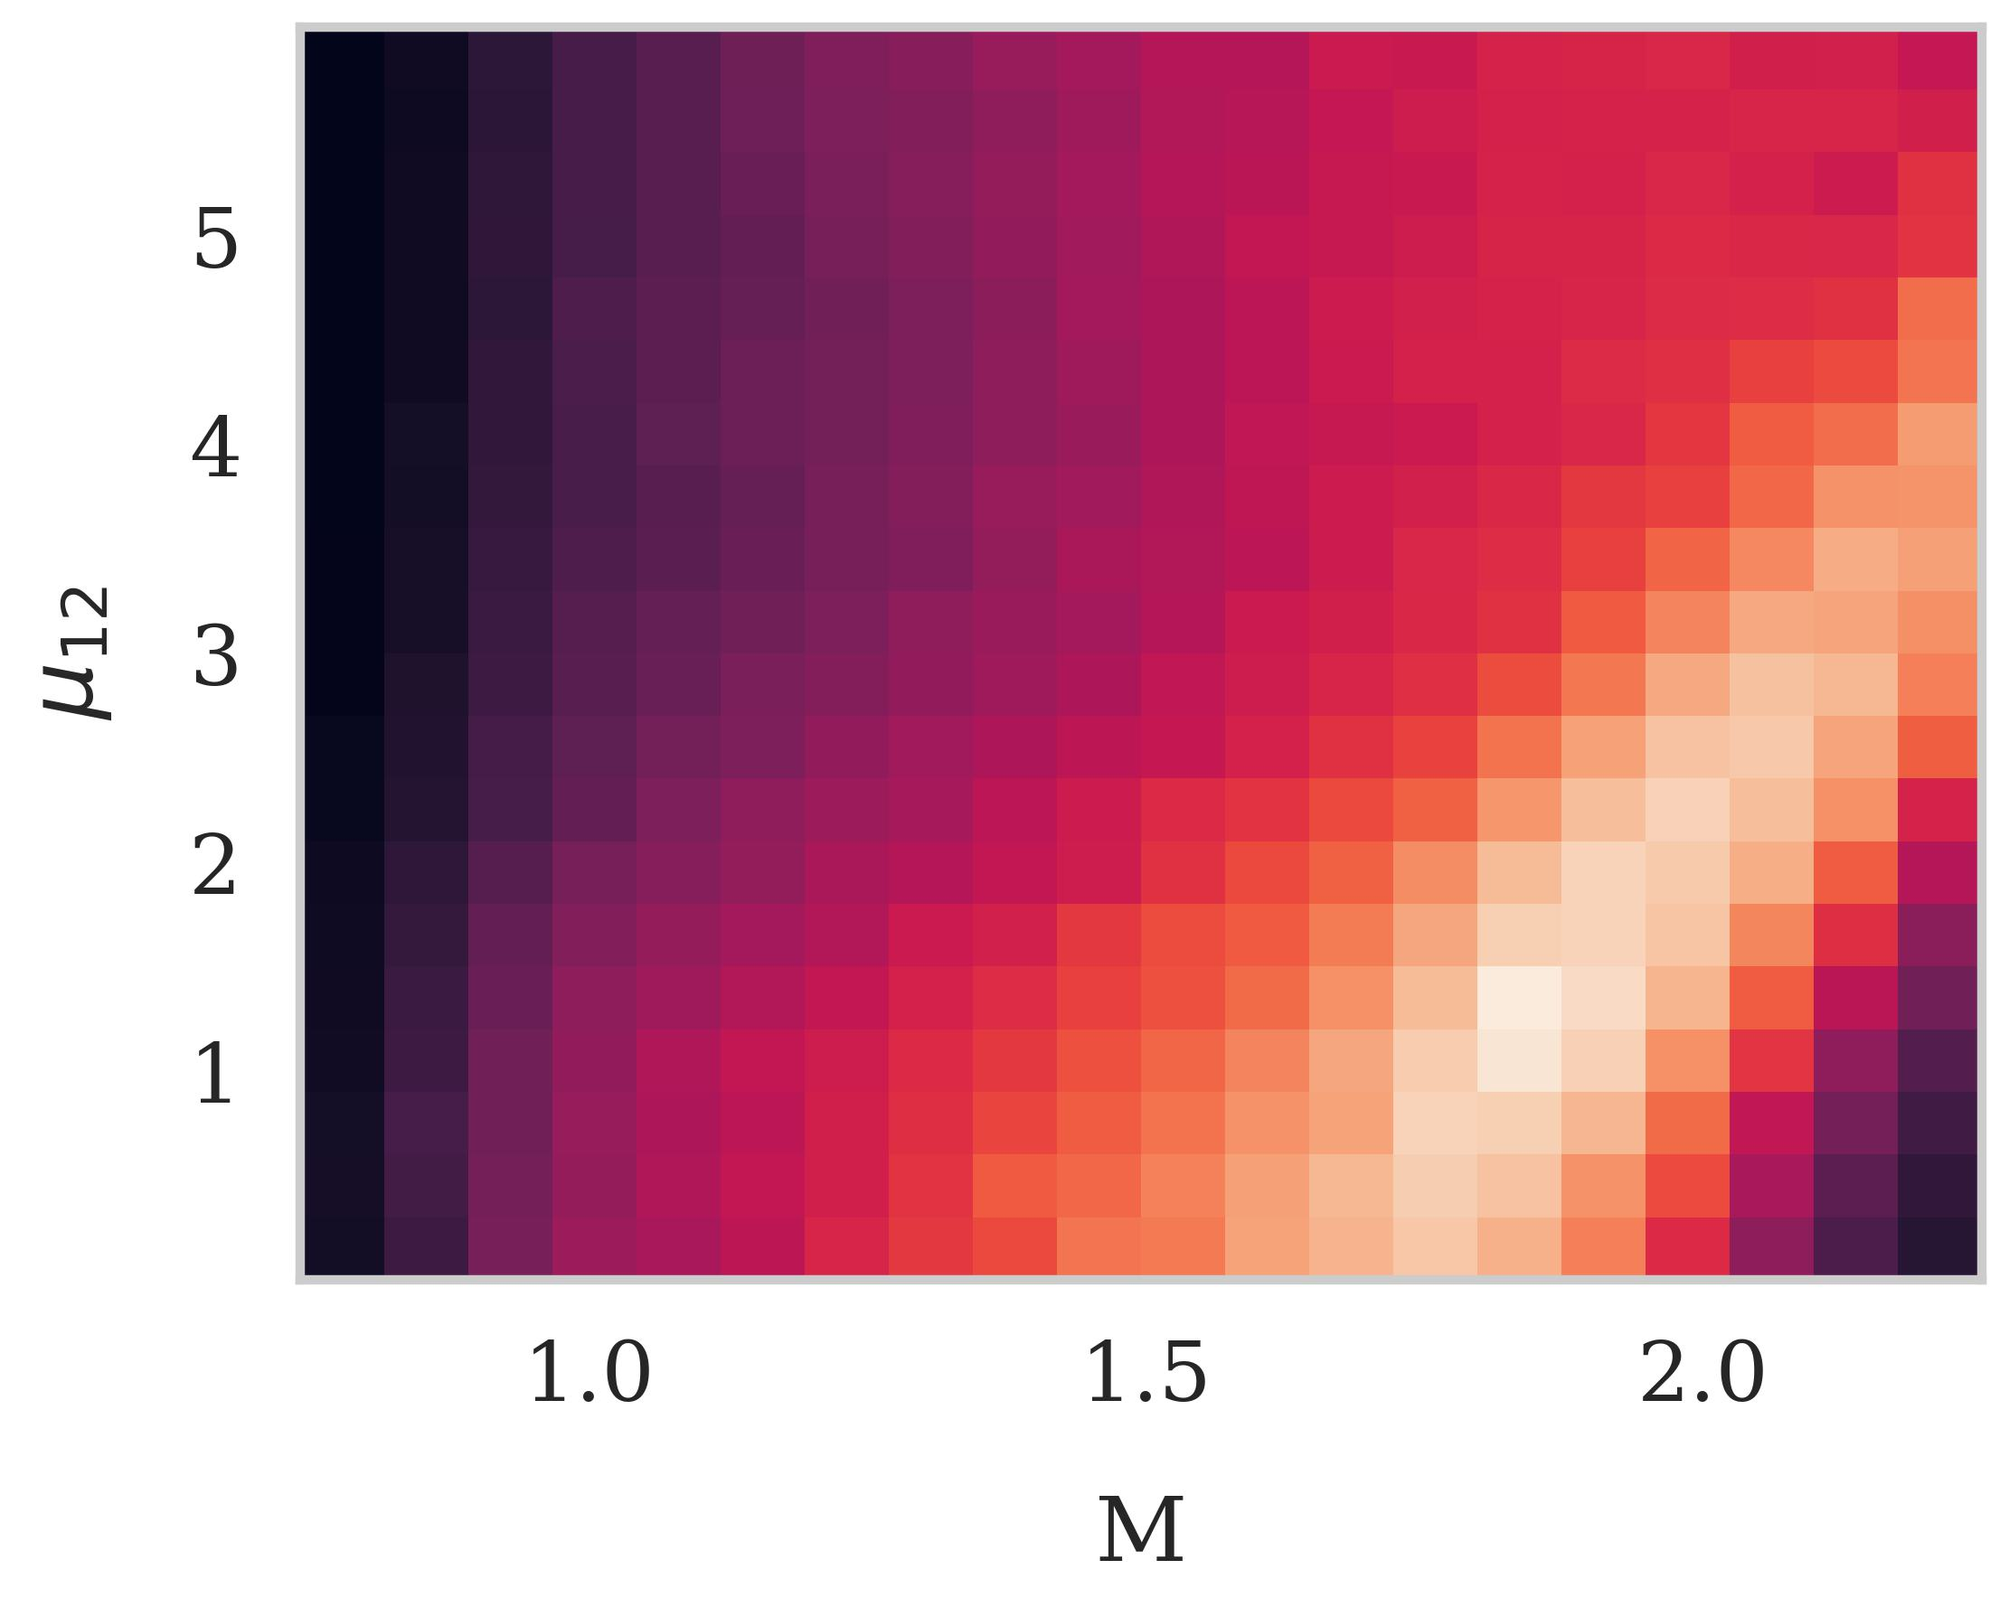
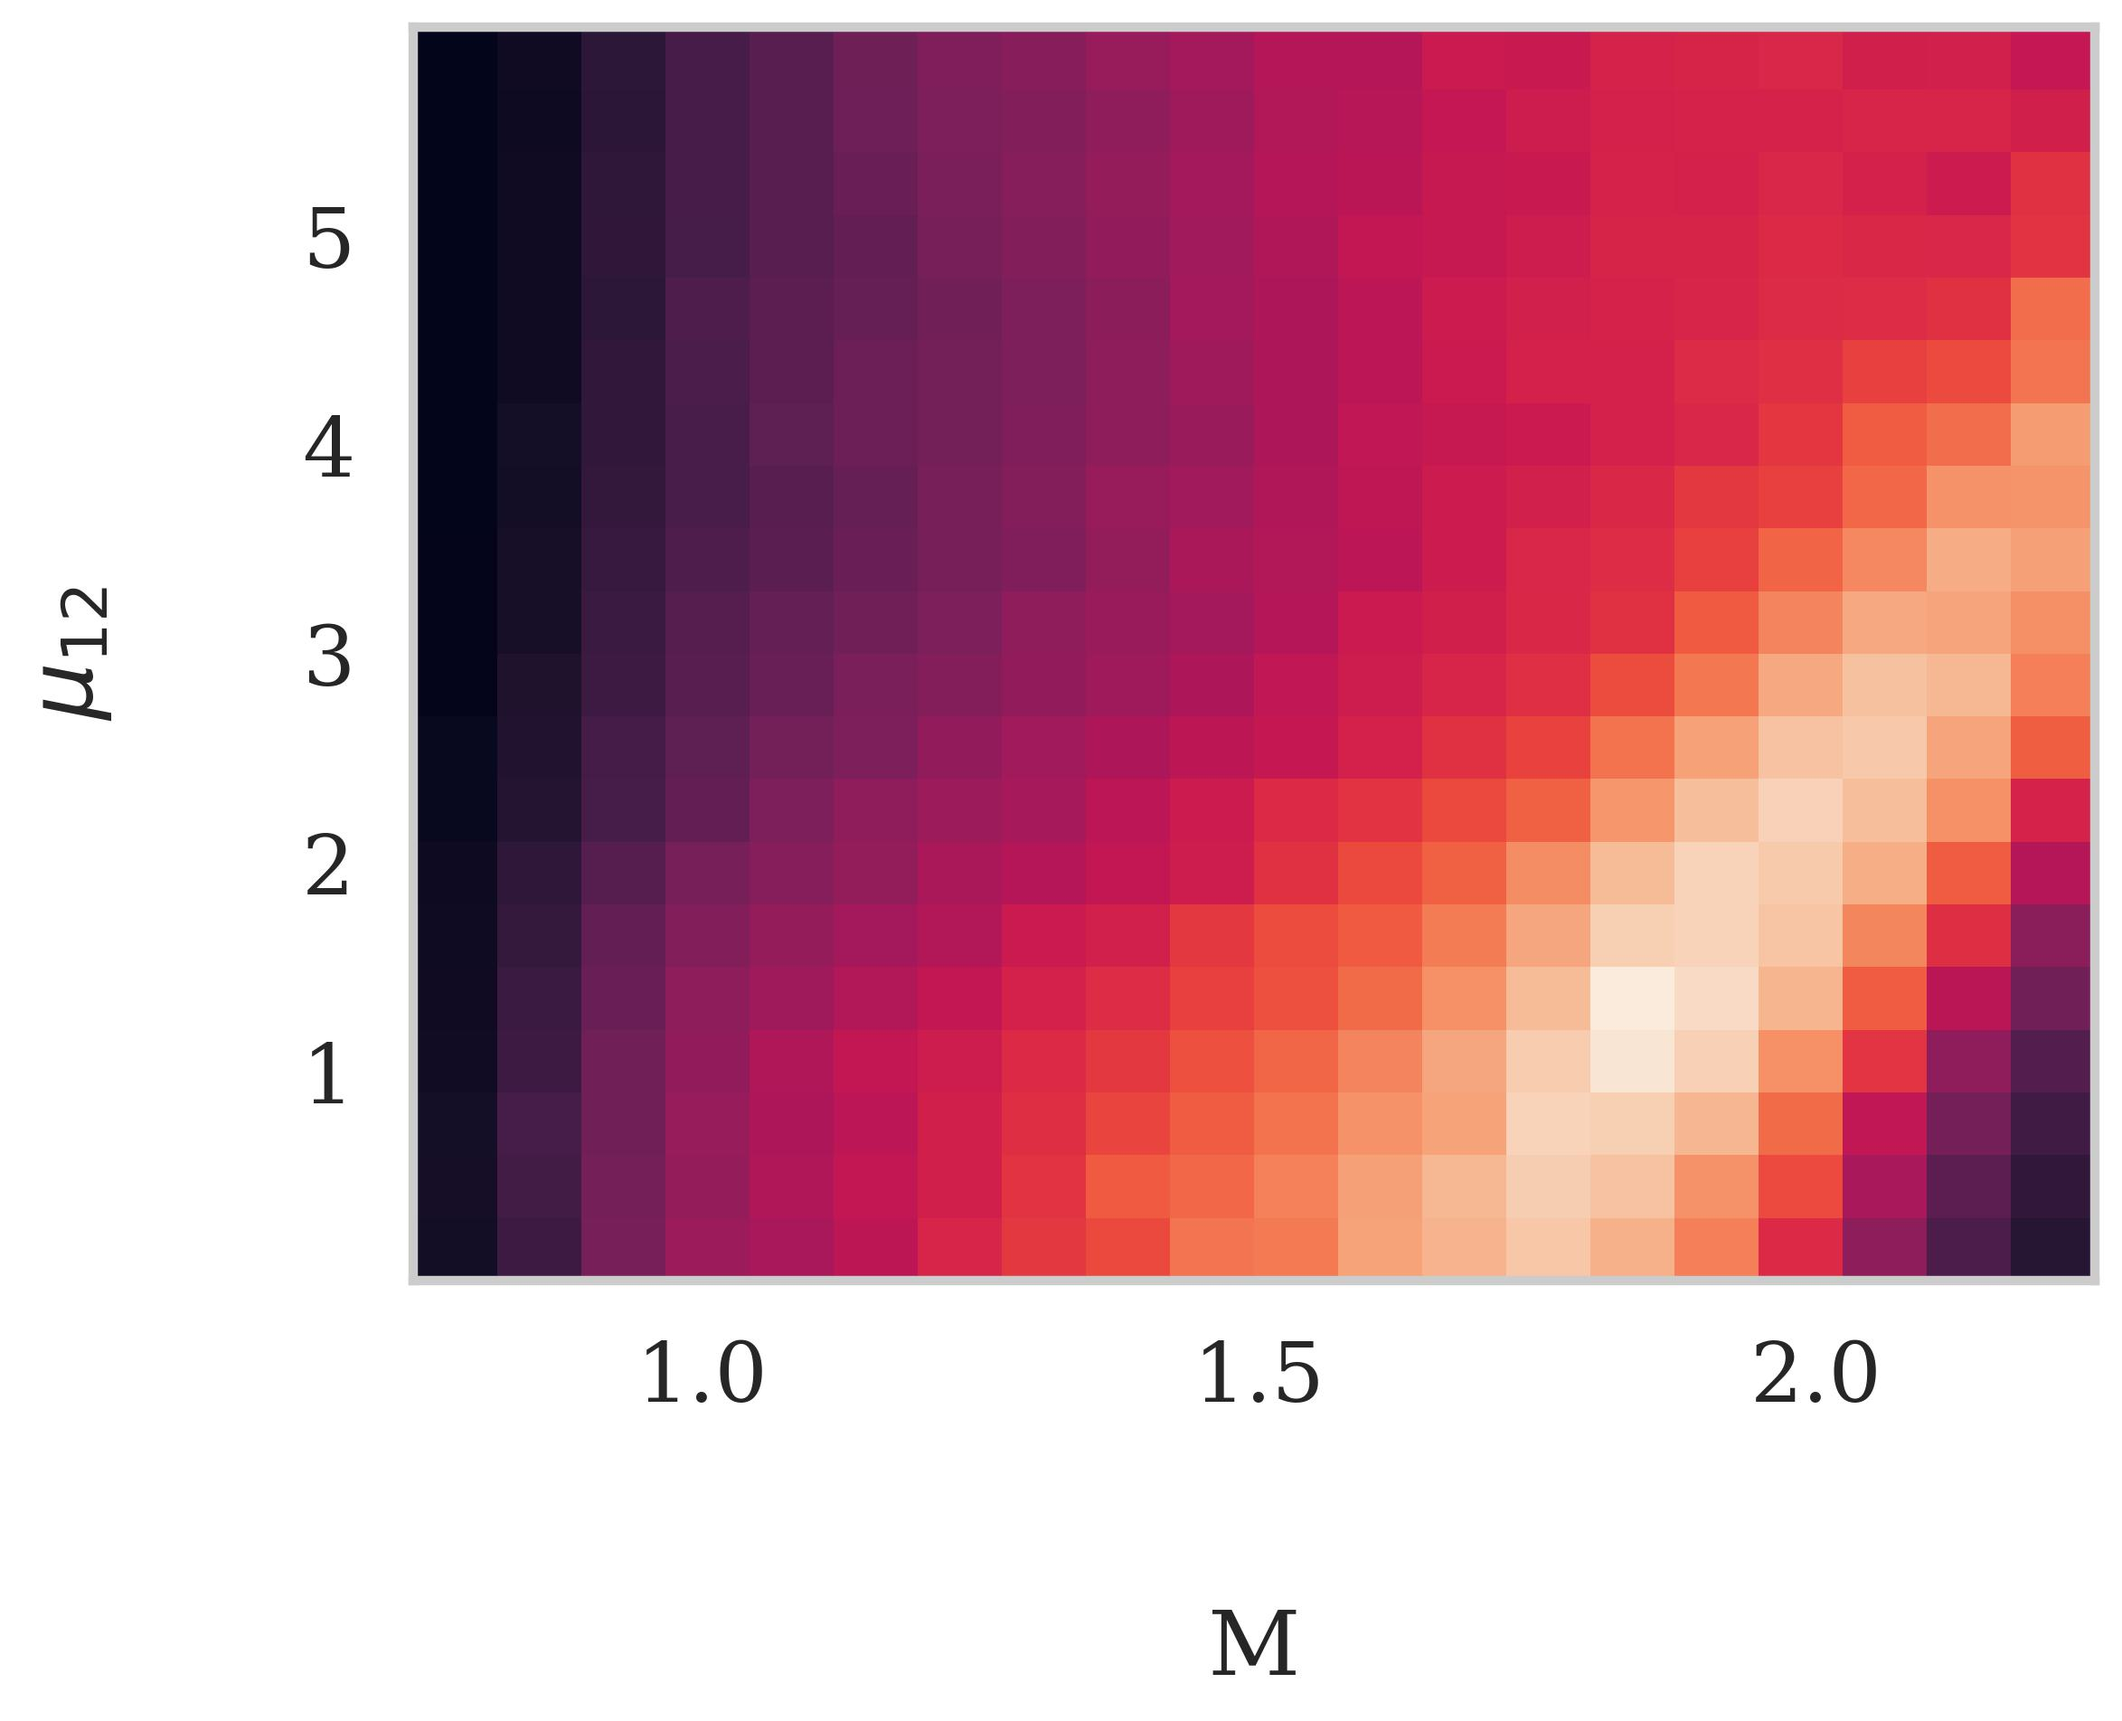
new fix

diff --git a/mcmc/analyzeMCMC.py b/mcmc/analyzeMCMC.py
@@ -6,6 +6,7 @@ constraints on input parameters
 # imports
 import sys
 import numpy as np
+import matplotlib as mpl
 import matplotlib.pyplot as plt
 import seaborn as sb
 import corner
@@ -13,7 +14,7 @@ import corner
 sb.set(context='poster', style='whitegrid', palette='Set1')
 plt.rcParams["font.family"] = "serif"
 plt.rcParams["figure.dpi"] = 300
-plt.rcParams["axes.labelpad"] = 20
+mpl.rcParams["axes.labelpad"] = 50
 
 def plotCorner(chain, log):
     '''
@@ -33,6 +34,10 @@ def plotCorner(chain, log):
                         plot_datapoints=False,
                         fill_contours=True,
                         levels=[0.68, 0.90, 0.95])
+
+    #for ax in fig.get_axes():
+    #ax.tick_params(axis='both', labelsize=14)
+
     fig.savefig("corner_pretty.jpeg", bbox_inches='tight', transparent=False)
 
 def testGaussian(chain):
